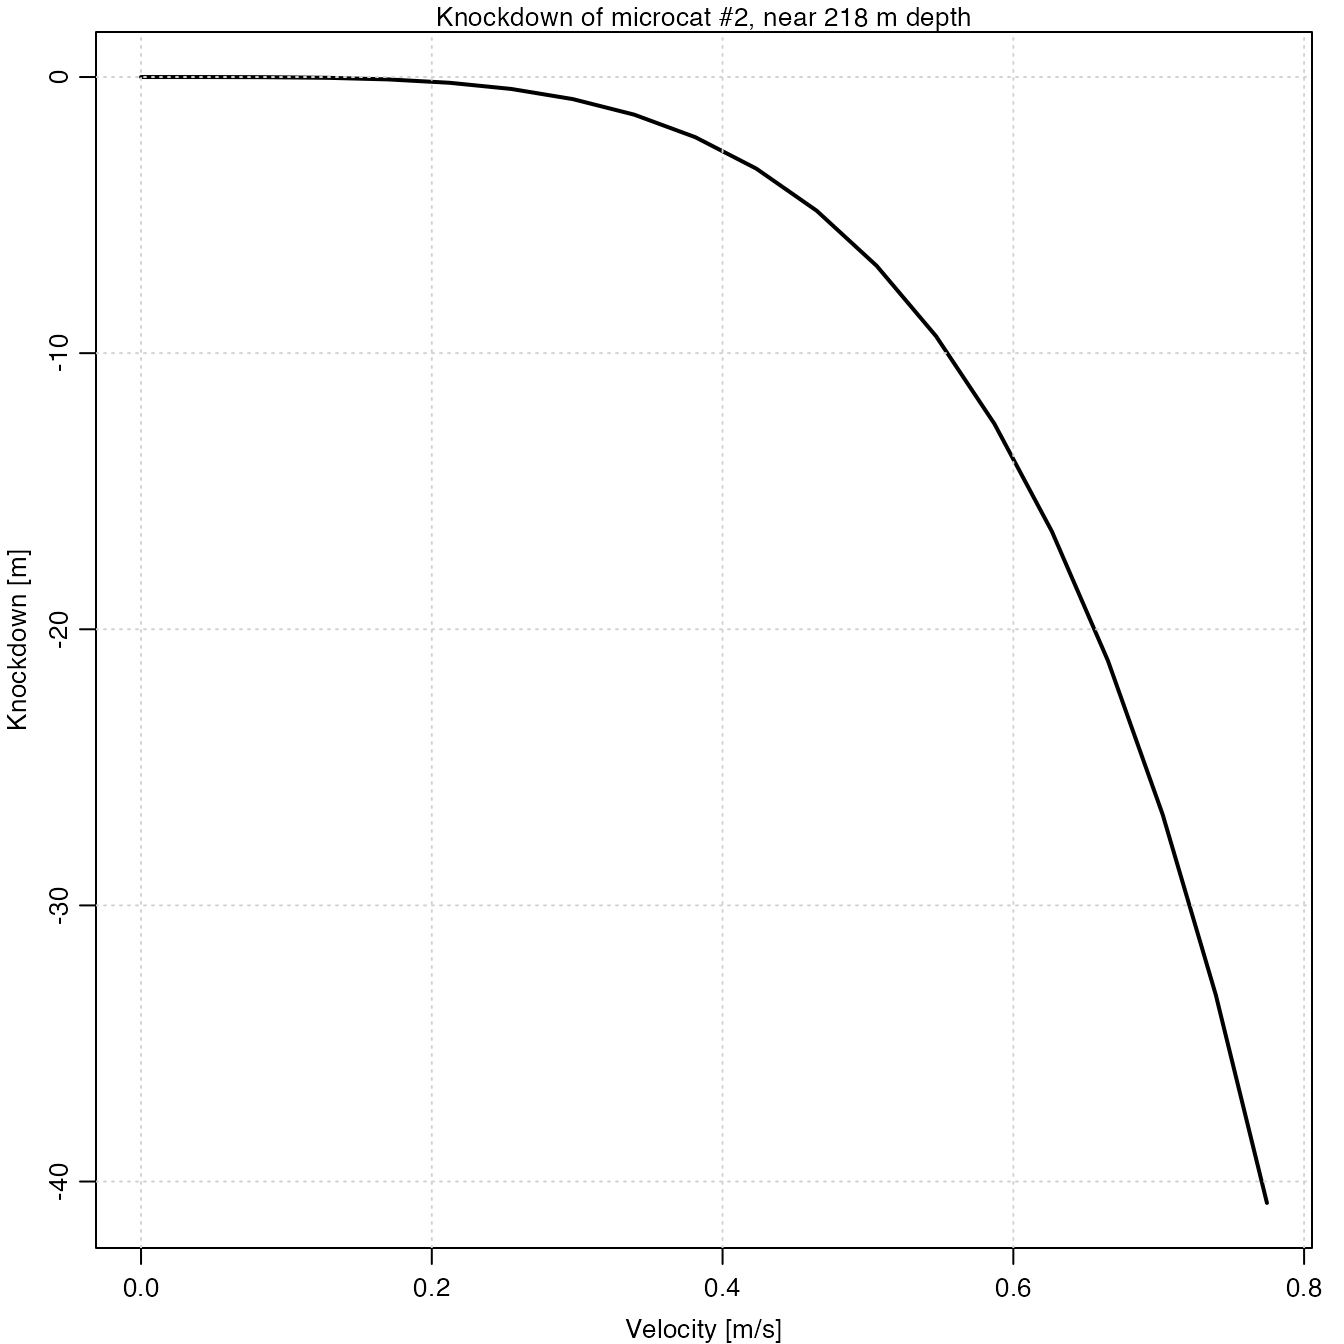
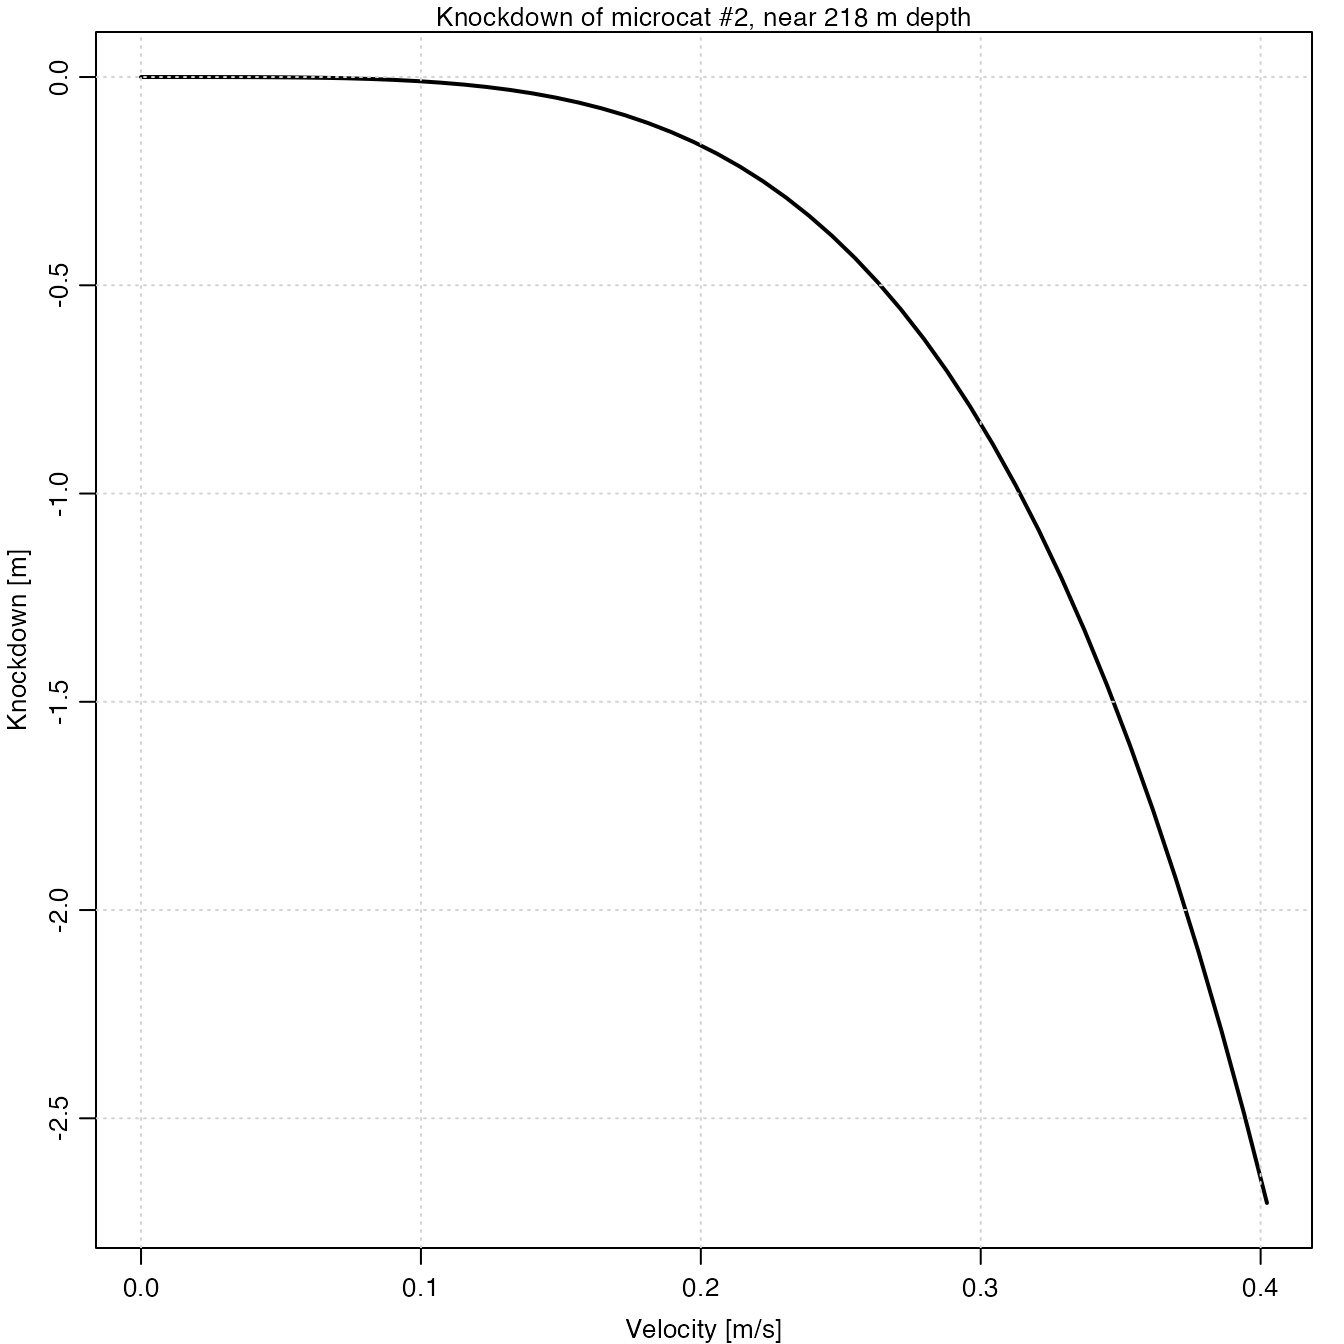
Built site for mooring: 0.1.0@02904ea

diff --git a/articles/example.html b/articles/example.html
@@ -202,8 +202,8 @@
 <code class="sourceCode R"><span class="fu"><a href="https://rdrr.io/r/graphics/par.html">par</a></span><span class="op">(</span>mar<span class="op">=</span><span class="fu"><a href="https://rdrr.io/r/base/c.html">c</a></span><span class="op">(</span><span class="fl">3</span>,<span class="fl">3</span>,<span class="fl">1</span>,<span class="fl">1</span><span class="op">)</span>, mgp<span class="op">=</span><span class="fu"><a href="https://rdrr.io/r/base/c.html">c</a></span><span class="op">(</span><span class="fl">2</span>,<span class="fl">0.7</span>,<span class="fl">0</span><span class="op">)</span>, mfrow<span class="op">=</span><span class="fu"><a href="https://rdrr.io/r/base/c.html">c</a></span><span class="op">(</span><span class="fl">1</span>,<span class="fl">1</span><span class="op">)</span><span class="op">)</span>
 <span class="va">iADCP</span> <span class="op">&lt;-</span> <span class="fl">152</span>
 <span class="va">imicrocat</span> <span class="op">&lt;-</span> <span class="fl">155</span>
-<span class="va">N</span> <span class="op">&lt;-</span> <span class="fl">20</span>
-<span class="va">u0</span> <span class="op">&lt;-</span> <span class="fu"><a href="https://rdrr.io/r/base/seq.html">seq</a></span><span class="op">(</span><span class="fl">0</span>, <span class="fl">1</span>, length.out<span class="op">=</span><span class="va">N</span><span class="op">)</span>
+<span class="va">N</span> <span class="op">&lt;-</span> <span class="fl">50</span>
+<span class="va">u0</span> <span class="op">&lt;-</span> <span class="fu"><a href="https://rdrr.io/r/base/seq.html">seq</a></span><span class="op">(</span><span class="fl">0</span>, <span class="fl">0.5</span>, length.out<span class="op">=</span><span class="va">N</span><span class="op">)</span>
 <span class="va">dz</span> <span class="op">&lt;-</span> <span class="fu"><a href="https://rdrr.io/r/base/rep.html">rep</a></span><span class="op">(</span><span class="cn">NA</span>, <span class="va">N</span><span class="op">)</span>
 <span class="va">U</span> <span class="op">&lt;-</span> <span class="fu"><a href="https://rdrr.io/r/base/rep.html">rep</a></span><span class="op">(</span><span class="cn">NA</span>, <span class="va">N</span><span class="op">)</span>
 <span class="kw">for</span> <span class="op">(</span><span class="va">i</span> <span class="kw">in</span> <span class="fu"><a href="https://rdrr.io/r/base/seq.html">seq_len</a></span><span class="op">(</span><span class="va">N</span><span class="op">)</span><span class="op">)</span> <span class="op">{</span>
@@ -331,7 +331,7 @@
 <span class="op">}</span></code></pre></div>
 <p>and then create <code>m</code>, <code>md</code> and <code>mdk</code> as before. The results are as follows. Note that knockdown is more than doubled. This makes determination of drag coefficient an especially important factor in mooring design; see e.g. <span class="citation">Hamilton (1989)</span> and <span class="citation">Hamilton, Fowler, and Belliveau (1997)</span>.</p>
 <div class="figure" style="text-align: center">
-<img src="example_files/figure-html/unnamed-chunk-16-1.png" alt="**Simulation with doubled wire drag.**" width="100%"><p class="caption">
+<img src="example_files/figure-html/unnamed-chunk-17-1.png" alt="**Simulation with doubled wire drag.**" width="100%"><p class="caption">
 <strong>Simulation with doubled wire drag.</strong>
 </p>
 </div>
